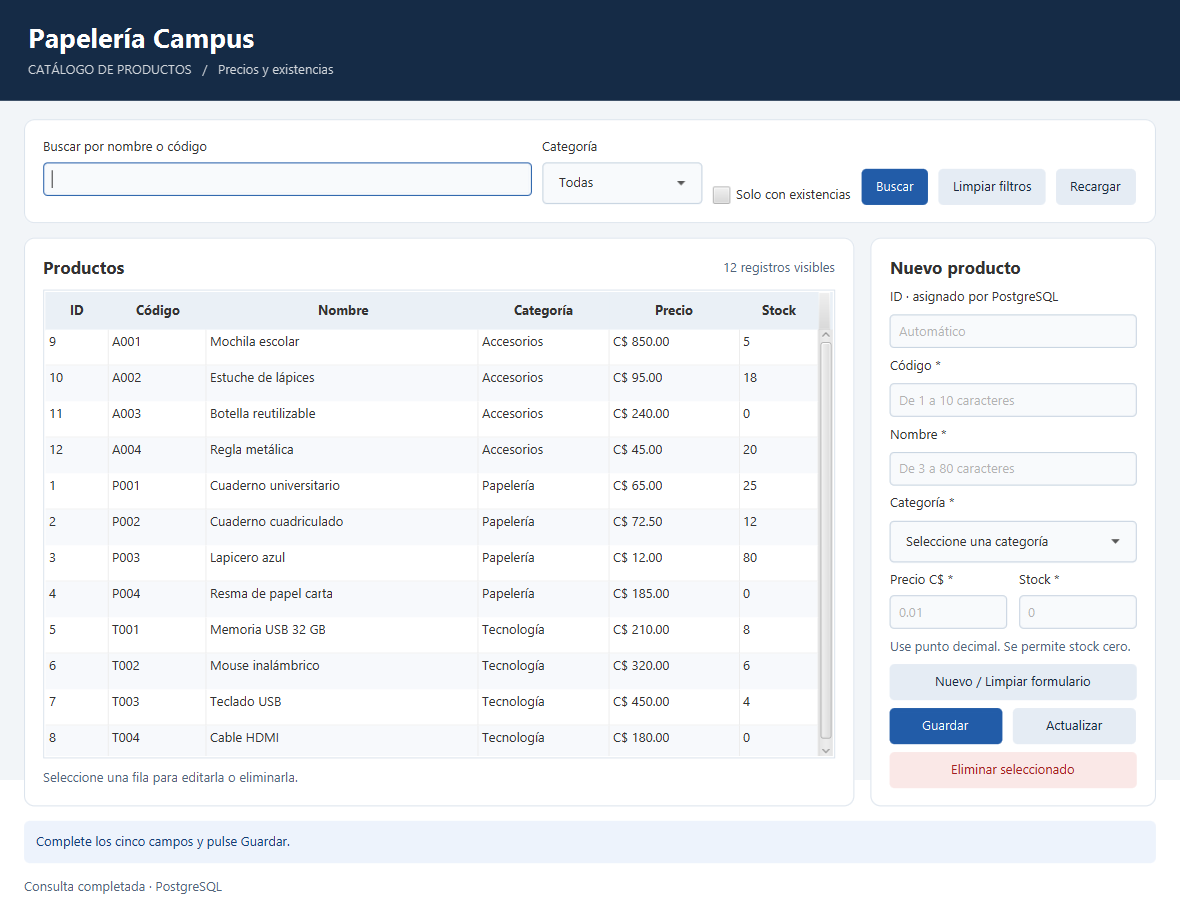
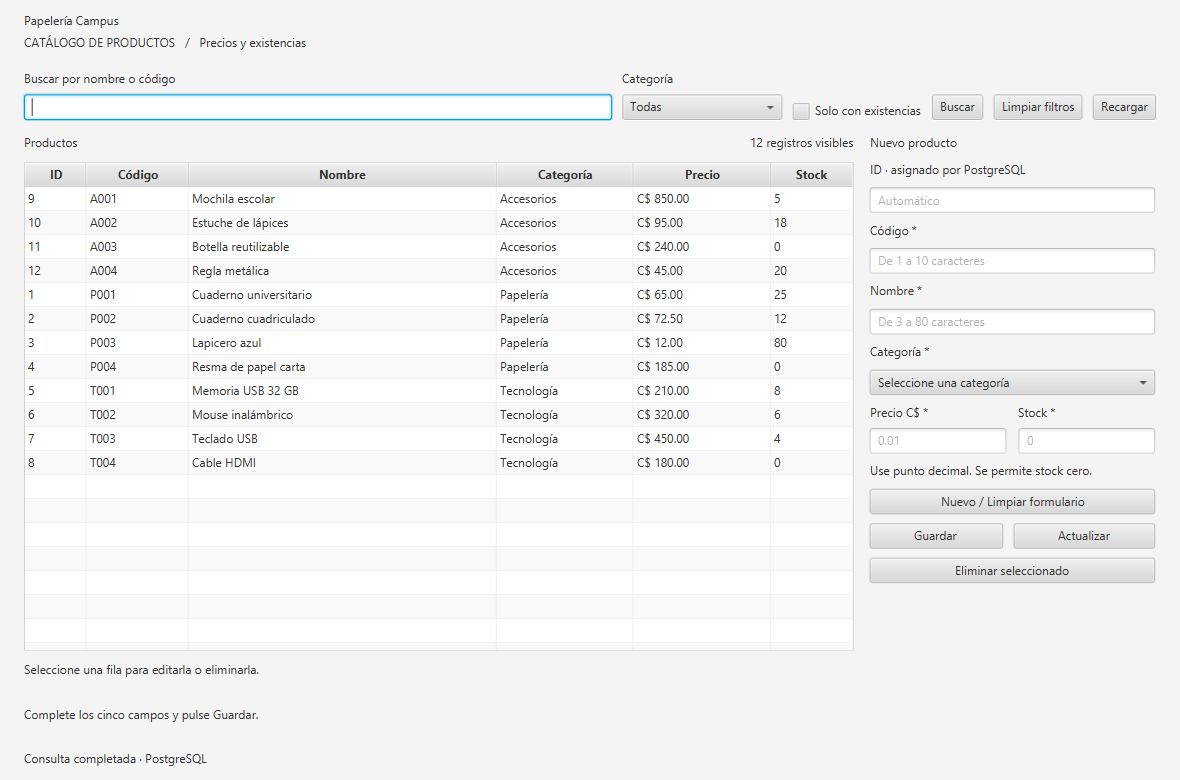
Quitar CSS personalizado y dejar interfaz básica de JavaFX

diff --git a/src/test/java/com/example/papeleriacampus/InterfazIntegrationTest.java b/src/test/java/com/example/papeleriacampus/InterfazIntegrationTest.java
@@ -49,7 +49,6 @@ class InterfazIntegrationTest {
             loader.setControllerFactory(type -> new PapeleriaCampusController(dao, avisos::add, p -> confirmar));
             root = loader.load(); c = loader.getController();
             Scene scene = new Scene(root,1180,780);
-            scene.getStylesheets().add(HelloApplication.class.getResource("campus.css").toExternalForm());
             stage = new Stage(); stage.setScene(scene); stage.setTitle("Papelería Campus · Pruebas"); stage.show();
             return null;
         });

diff --git a/src/main/java/com/example/papeleriacampus/HelloApplication.java b/src/main/java/com/example/papeleriacampus/HelloApplication.java
@@ -12,7 +12,6 @@ public class HelloApplication extends Application {
     public void start(Stage stage) throws IOException {
         FXMLLoader fxmlLoader = new FXMLLoader(HelloApplication.class.getResource("hello-view.fxml"));
         Scene scene = new Scene(fxmlLoader.load(), 1180, 780);
-        scene.getStylesheets().add(HelloApplication.class.getResource("campus.css").toExternalForm());
         stage.setTitle("Papelería Campus · Catálogo de productos");
         stage.setMinWidth(1000);
         stage.setMinHeight(720);

diff --git a/README.md b/README.md
@@ -57,7 +57,7 @@ Para crear, pulse Nuevo, llene los cinco campos y Guardar. Para editar, seleccio
 
 ## Organización y flujo
 
-`hello-view.fxml` y `campus.css` definen la interfaz. `PapeleriaCampusController` recibe las acciones y valida mediante `ProductoValidator`; transforma los resultados del DAO en `ObservableList<Producto>` para el TableView. `Producto` es el modelo inmutable y usa BigDecimal. `ProductoDAO` contiene todo el SQL de aplicación y usa PreparedStatement, ResultSet y try-with-resources. `DatabaseConnection` obtiene la conexión mediante configuración externa.
+`hello-view.fxml` define una interfaz básica con los controles y el aspecto predeterminado de JavaFX, sin CSS personalizado. `PapeleriaCampusController` recibe las acciones y valida mediante `ProductoValidator`; transforma los resultados del DAO en `ObservableList<Producto>` para el TableView. `Producto` es el modelo inmutable y usa BigDecimal. `ProductoDAO` contiene todo el SQL de aplicación y usa PreparedStatement, ResultSet y try-with-resources. `DatabaseConnection` obtiene la conexión mediante configuración externa.
 
 Flujo: **interfaz > controlador > validador > DAO > JDBC > PostgreSQL > ResultSet > Producto > ObservableList > TableView**. Las consultas y escrituras se ejecutan en una Task para que la interfaz no se congele. Durante la operación se bloquean controles para evitar envíos dobles. UPDATE y DELETE usan exclusivamente `id_producto`; cero filas afectadas produce una advertencia. Las excepciones registran operación y SQLState sin contraseñas ni trazas del driver.
 

diff --git a/pruebas.md b/pruebas.md
@@ -8,7 +8,7 @@ Entorno: Windows, Temurin 21.0.12, JavaFX 21.0.6, PostgreSQL 18 local en 127.0.0
 
 Se ejecutan 12 métodos JUnit: 3 de validación, 5 de DAO/JDBC real y 4 de interfaz con FXML real. Cada método recorre varios casos del enunciado. Las capturas son píxeles obtenidos de `Scene.snapshot` durante la ejecución; no son maquetas. El resultado esperado se compara mediante aserciones. La confirmación Aceptar/Cancelar se inyecta en los tests para recorrer ambas decisiones; la aplicación final muestra un Alert modal. Los resultados de INSERT, UPDATE y DELETE se comprueban con nuevas consultas y con **tres procesos JVM independientes**, además de volver a abrir el controlador JavaFX.
 
-Comando de verificación (con JAVA_HOME 21 y variables de prueba configuradas como indica README): `mvnw.cmd -B clean verify`.
+Comando de verificación (con JAVA_HOME 21 y variables de prueba configuradas como indica README): `mvnw.cmd -B clean verify`. La verificación y las ocho capturas se actualizaron con la interfaz básica de JavaFX, sin CSS personalizado.
 
 Resultado final: **12 pruebas, 0 fallos, 0 errores, 0 omitidas**. Ver [log completo](evidencias/maven-verificacion.txt) y [reportes JUnit](evidencias/). Las advertencias SQLState 23505/23514/23502/08001 corresponden a errores provocados y gestionados deliberadamente. JavaFX avisa que los tests cargan clases desde el classpath; el lanzamiento normal usa el module-path y también fue ejecutado.
 
